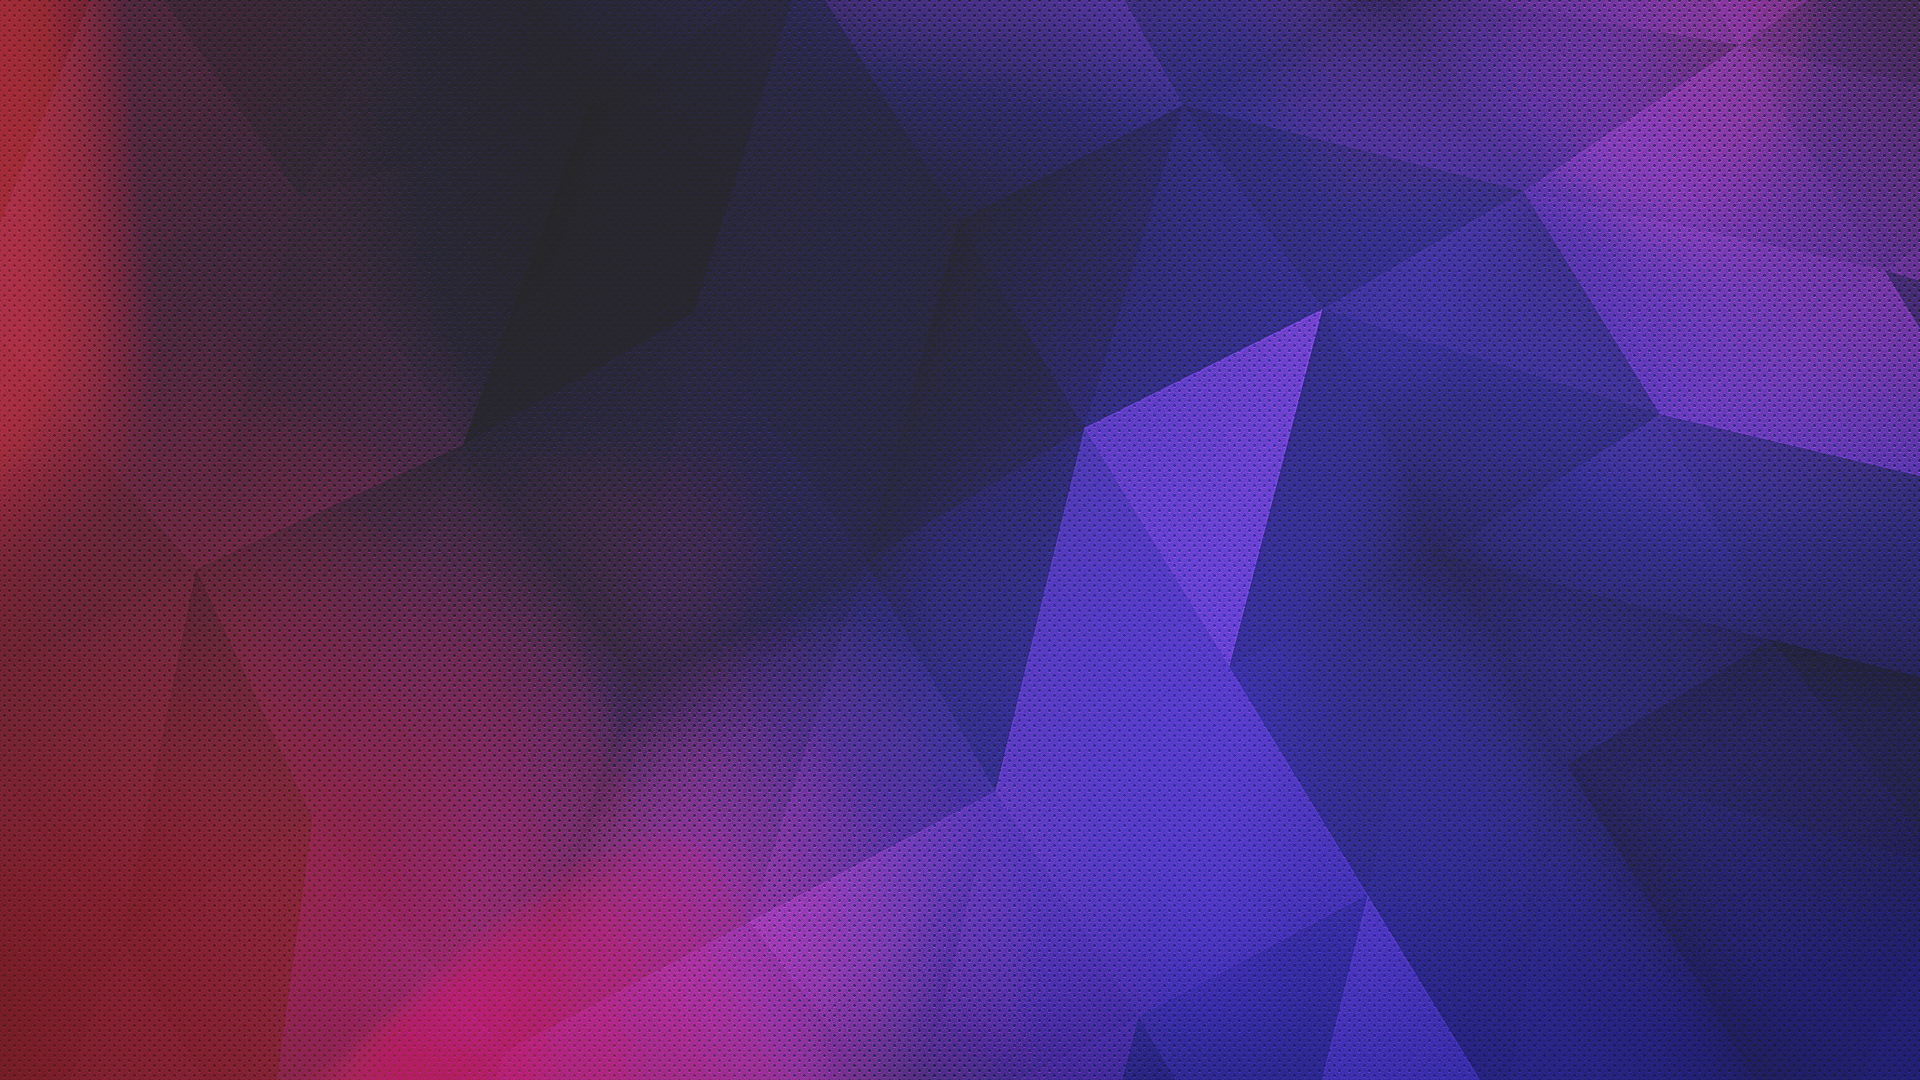
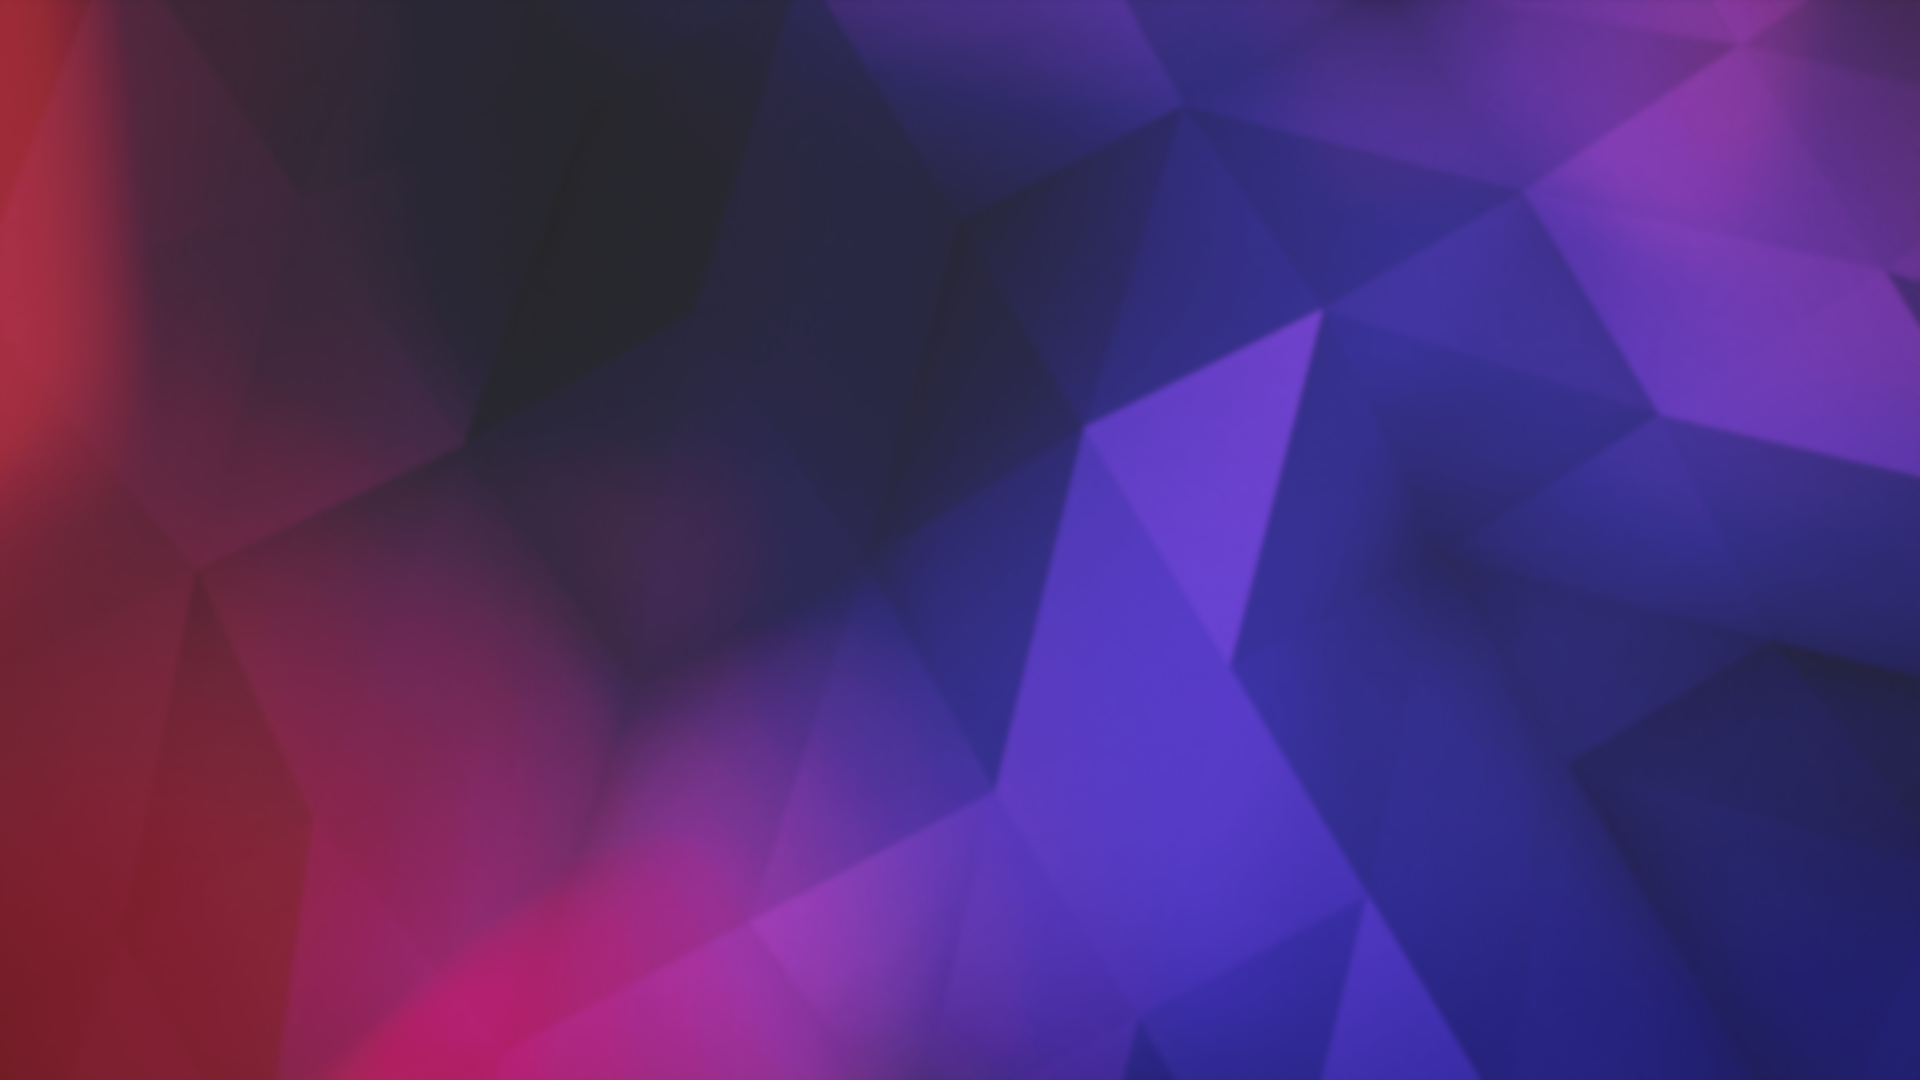
blured login bg by default

Changed region(s): [[0.0, 0.0, 1.0, 1.0]]

diff --git a/frontend/src/views/Login.vue b/frontend/src/views/Login.vue
@@ -134,8 +134,6 @@ onBeforeMount(async () => {
   position: absolute;
   background: url("/assets/login_bg.png") center center;
   background-size: cover;
-  -webkit-filter: blur(3px);
-  filter: blur(3px);
 }
 #card {
   background-color: rgba(0, 0, 0, 0.4);